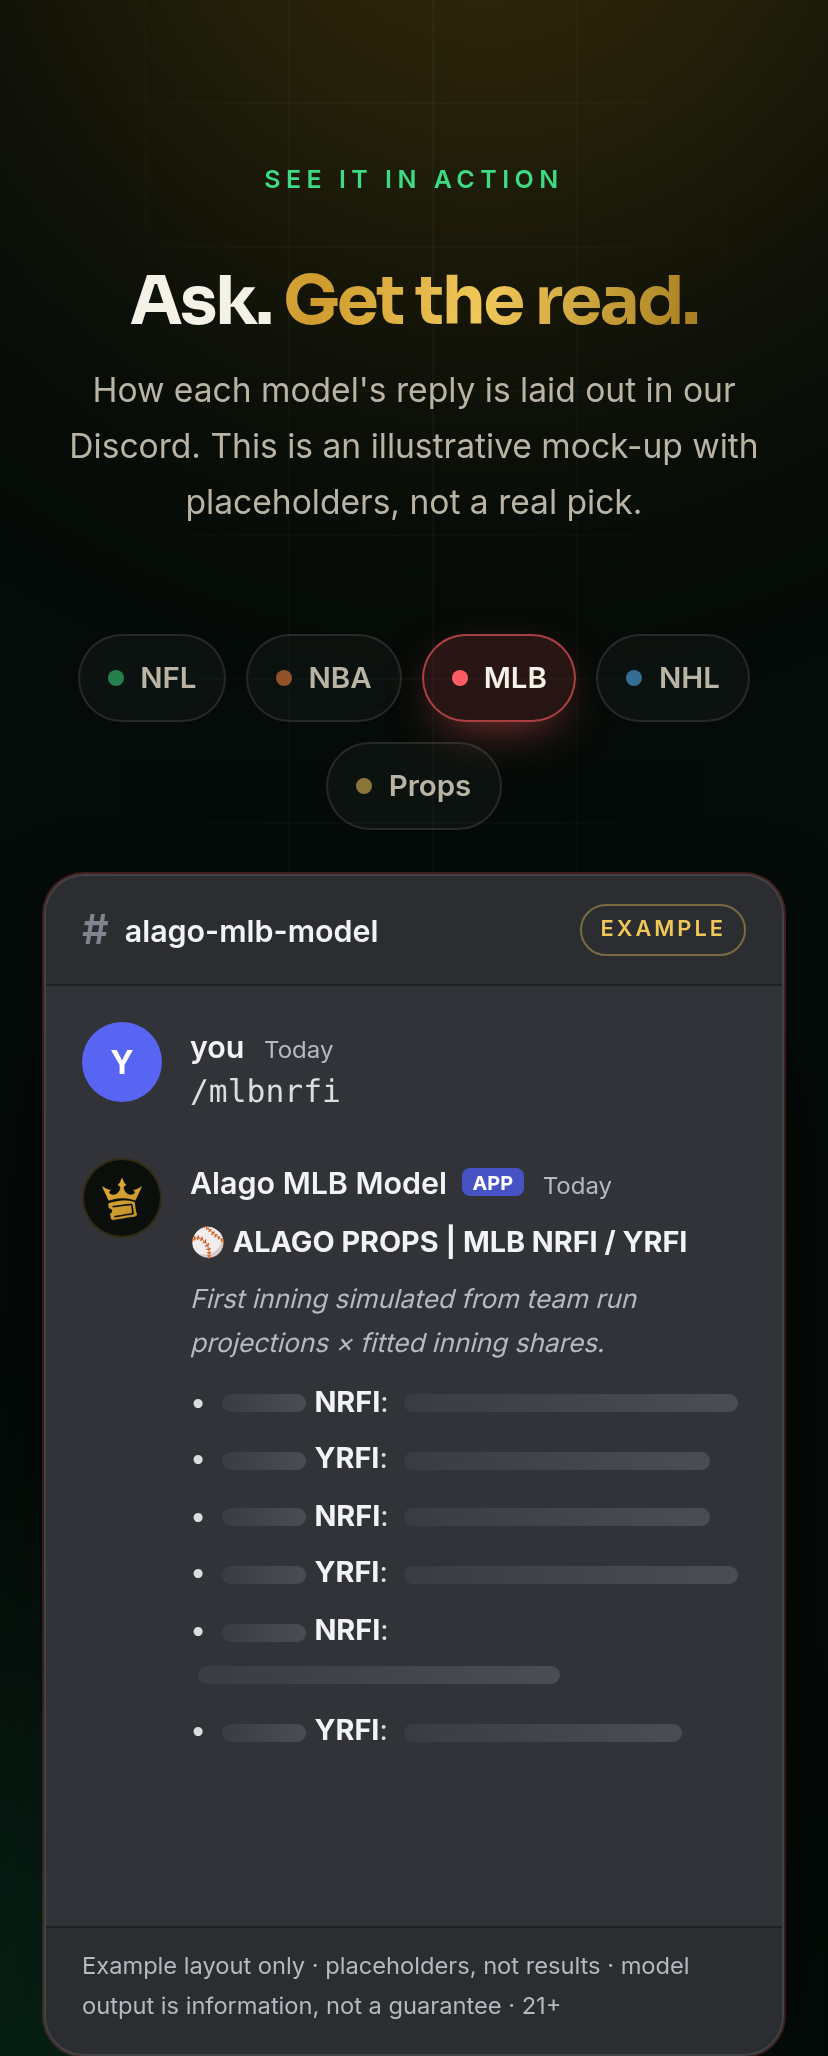
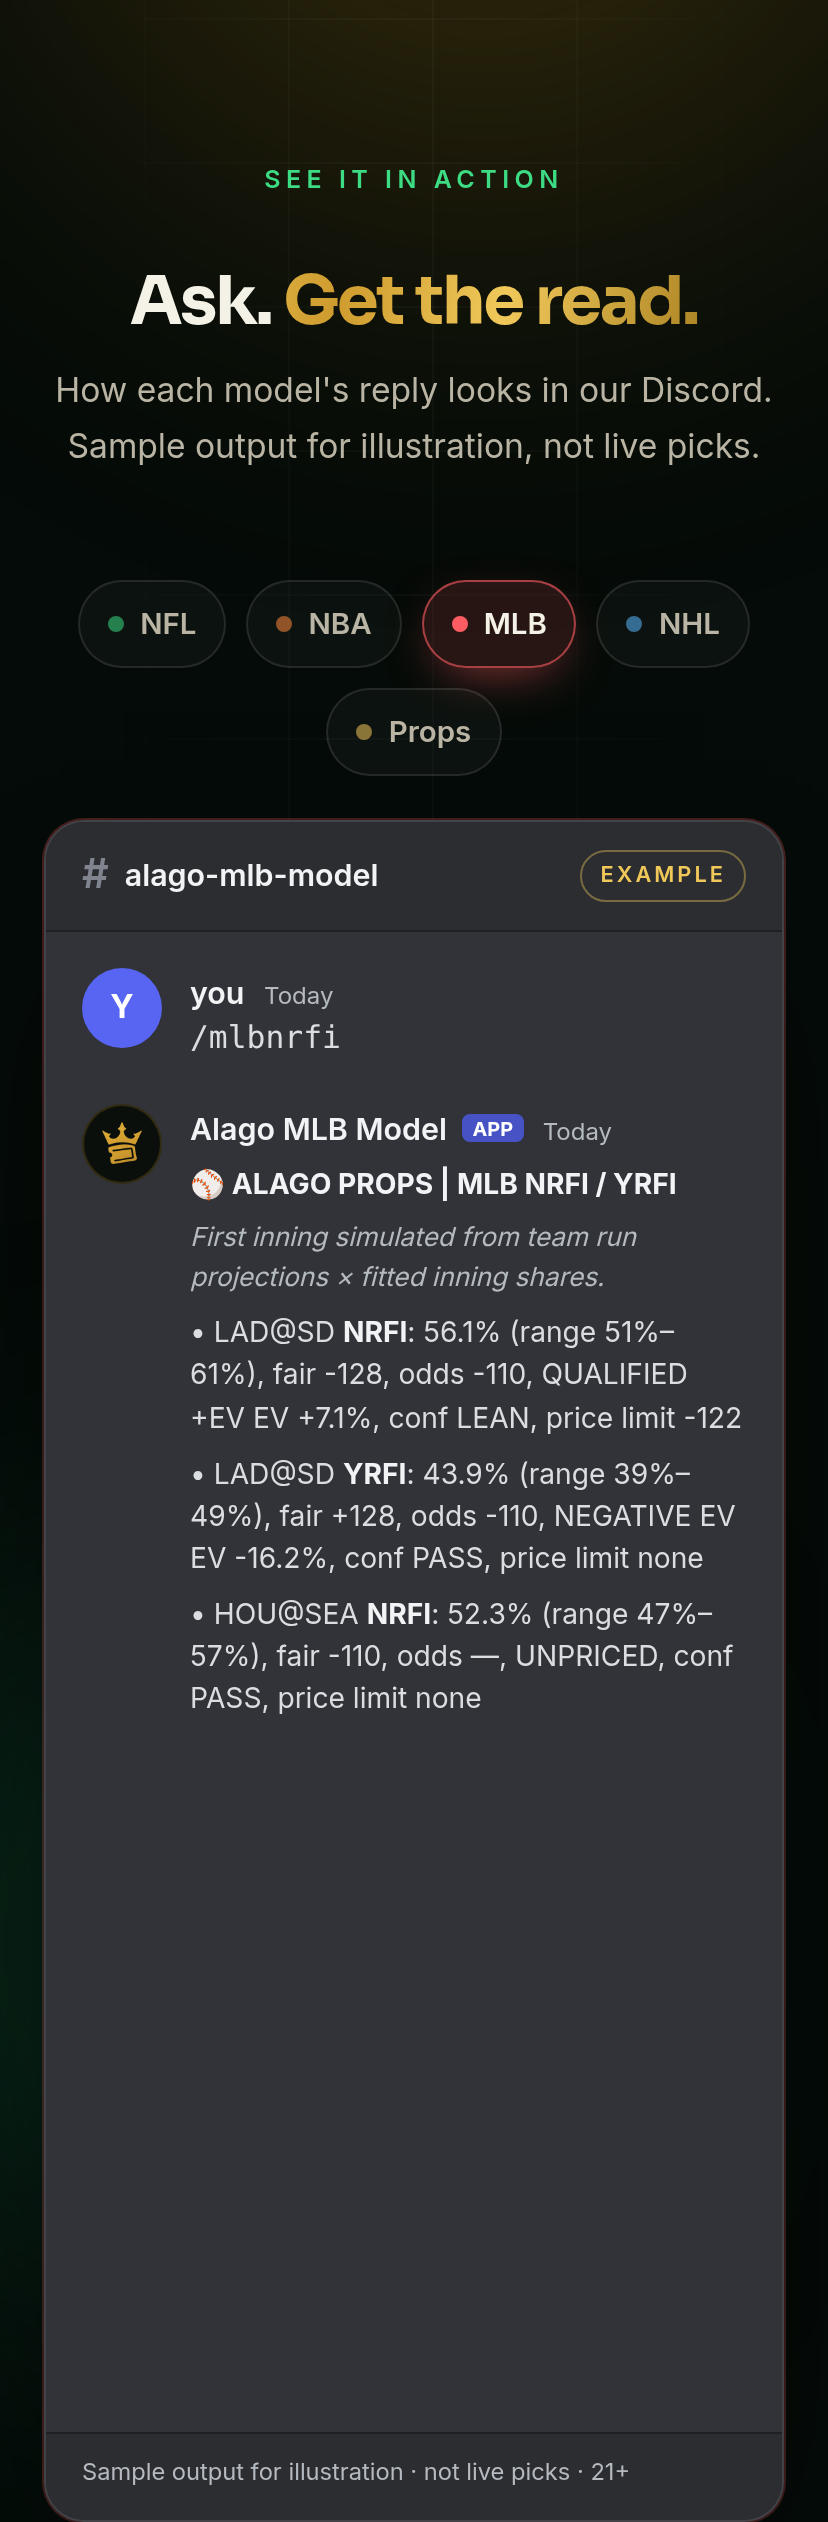
Demo: realistic sample output in each bot's real format; new disclaimer; chart

diff --git a/main.js b/main.js
@@ -138,18 +138,36 @@ c.classList.add('copied');setTimeout(()=>c.classList.remove('copied'),1200);show
 
 /* discord demo: 5 model tabs; reply layouts mirror each bot's real output (titles/labels from bot code), values are placeholders */
 (()=>{const box=document.getElementById('demoBox');if(!box)return;const RM=matchMedia('(prefers-reduced-motion: reduce)').matches;
-const sk=w=>`<i class="sk w${w}"></i>`;
 const D={
- nfl:{ch:'alago-nfl-model',bot:'Alago NFL Model',cmd:'/nflslate',sr:'the Alago NFL Model replies with an NFL slate breakdown: best supported straight bet, best supported player prop, best potential +EV opportunity, best-supported parlay candidates, and games and markets worth monitoring.',
-  html:`<div class="d-txt"><p><b>🏈 ALAGO PROPS | NFL SLATE BREAKDOWN</b> ${sk(30)}</p><p class="d-sub">Analysis ${sk(40)}</p>${['1. Best supported straight bet:','2. Best supported player prop:','3. Best potential +EV opportunity:','4. Best-supported parlay candidates:','5. Games and markets worth monitoring:'].map((l,i)=>`<p class="d-line"><b>${l}</b>${sk([70,60,75,55,65][i])}</p>`).join('')}</div>`},
- nba:{ch:'alago-nba-model',bot:'Alago NBA Model',cmd:'/nbabestbet',sr:'the Alago NBA Model replies with an embed titled ALAGO PROPS, NBA BEST BET, with fields for sources and freshness, the best bet, and unverified data.',
-  html:`<div class="d-embed" style="--ec:#ff8a3d"><p class="d-et">ALAGO PROPS | NBA BEST BET | ${sk(25)}</p>${['Sources &amp; freshness','NBA BEST BET','Unverified data'].map((l,i)=>`<div class="d-fld"><p class="d-fn">${l}</p>${sk([80,90,60][i])}${i===1?sk(70)+sk(50):''}</div>`).join('')}</div>`},
- mlb:{ch:'alago-mlb-model',bot:'Alago MLB Model',cmd:'/mlbnrfi',sr:'the Alago MLB Model replies with an MLB NRFI and YRFI breakdown listing each game with its first-inning estimate, fair price, status and confidence.',
-  html:`<div class="d-txt"><p><b>⚾ ALAGO PROPS | MLB NRFI / YRFI</b></p><p class="d-sub"><em>First inning simulated from team run projections × fitted inning shares.</em></p>${[0,1,2].map(i=>`<p class="d-line">• ${sk(15)} <b>NRFI</b>: ${sk([60,55,65][i])}</p><p class="d-line">• ${sk(15)} <b>YRFI</b>: ${sk([55,60,50][i])}</p>`).join('')}</div>`},
- nhl:{ch:'alago-nhl-model',bot:'Alago NHL Model',cmd:'/nhlgoalie',sr:'the Alago NHL Model replies with a goalie card: goalie and status, basis, projected save percentage, opponent shots, saves and goals against, then win, shutout and goals-against estimates.',
-  html:`<div class="d-txt"><p>🥅 <b>${sk(30)}</b> ${sk(40)}</p><p class="d-line"><b>Basis:</b> ${sk(60)}</p><p class="d-line"><b>Proj sv%</b> ${sk(15)} · <b>opp SOG</b> ${sk(15)} · <b>saves</b> ${sk(15)} · <b>GA</b> ${sk(15)}</p><p class="d-line"><b>Win</b> ${sk(15)} · <b>Shutout</b> ${sk(15)} · <b>GA u2.5</b> ${sk(15)} <span class="d-note">[model estimates]</span></p></div>`},
- props:{ch:'alago-props-model',bot:'Alago Props Model',cmd:'/nba',opts:['firstname','lastname','prop'],sr:'the Alago Props Model replies with an embed for the player and prop with fields for player, team, league, prop, games, average, line, above, below or equal, and hit rate, plus a note that hit rate describes past games and is not a probability.',
-  html:`<div class="d-embed" style="--ec:#3b82f6"><p class="d-et">${sk(35)} · ${sk(25)}</p><div class="d-grid">${['Player','Team','League','Prop','Games','Average','Line','Above / Below / Equal','Hit rate (over)'].map((l,i)=>`<div><p class="d-fn">${l}</p>${sk([70,50,60,65,30,40,35,75,55][i])}</div>`).join('')}</div><p class="d-foot2">HISTORICAL data from stored source records. Hit rate describes past games; it is not a probability.</p></div>`}};
+ nfl:{ch:'alago-nfl-model',bot:'Alago NFL Model',cmd:'/nflslate',
+  html:`<div class="d-txt"><p><b>🏈 ALAGO PROPS | NFL SLATE BREAKDOWN</b></p><p class="d-sub">Analysis 10:42 AM ET · ESPN schedule + DK prices</p>
+<p class="d-line"><b>1. Best supported straight bet:</b> BUF@KC · Chiefs -3.5 · -110 · est. 56.2% (model edge +2.1 pts) · EV +7.3% · QUALIFIED +EV → LEAN</p>
+<p class="d-line"><b>2. Best supported player prop:</b> BUF@KC · Josh Allen o1.5 pass TD · +105 · est. 53.0% · EV +8.6% · QUALIFIED +EV → LEAN</p>
+<p class="d-line"><b>3. Best potential +EV opportunity:</b> DET@GB · Under 47.5 · -108 · est. 54.8% · EV +5.5% · QUALIFIED +EV → LOW</p>
+<p class="d-line"><b>4. Best-supported parlay candidates:</b> Chiefs -3.5 (QUALIFIED +EV); Josh Allen o1.5 pass TD (QUALIFIED +EV)</p>
+<p class="d-line"><b>5. Games and markets worth monitoring:</b> PHI@DAL Eagles ML -135 (needs -125 or better)</p></div>`,
+  sr:'the Alago NFL Model replies with an NFL slate breakdown listing a sample best straight bet, player prop, +EV opportunity, parlay candidates and games to monitor.'},
+ nba:{ch:'alago-nba-model',bot:'Alago NBA Model',cmd:'/nbabestbet',
+  html:`<div class="d-embed" style="--ec:#ff8a3d"><p class="d-et">ALAGO PROPS | NBA BEST BET</p>
+<div class="d-fld"><p class="d-fn">Sources &amp; freshness</p><p class="d-fv">Schedule: ESPN scoreboard ✓ fetched 3 min ago<br>Odds: Odds API · updated 3 min ago</p></div>
+<div class="d-fld"><p class="d-fn">NBA BEST BET</p><p class="d-fv">🏀 ALAGO PROPS | NBA BEST BET<br>Matchup: BOS @ NYK<br>Pick: Celtics -2.5<br>Odds: -110 (DraftKings)<br>Estimated Probability: 55.0% (model estimate)<br>Confidence: Lean<br>PLAY Celtics -2.5 at -110 or better (limit -118). Small, flat stake. Model estimate - not a guarantee.</p></div>
+<div class="d-fld"><p class="d-fn">Unverified data</p><p class="d-fv">- Starting lineups not yet confirmed</p></div></div>`,
+  sr:'the Alago NBA Model replies with a sample best bet embed: sources and freshness, Celtics minus 2.5 at minus 110 with a 55 percent model estimate, and unverified data.'},
+ mlb:{ch:'alago-mlb-model',bot:'Alago MLB Model',cmd:'/mlbnrfi',
+  html:`<div class="d-txt"><p><b>⚾ ALAGO PROPS | MLB NRFI / YRFI</b></p><p class="d-sub"><em>First inning simulated from team run projections × fitted inning shares.</em></p>
+<p class="d-line">• LAD@SD <b>NRFI</b>: 56.1% (range 51%–61%), fair -128, odds -110, QUALIFIED +EV EV +7.1%, conf LEAN, price limit -122</p>
+<p class="d-line">• LAD@SD <b>YRFI</b>: 43.9% (range 39%–49%), fair +128, odds -110, NEGATIVE EV EV -16.2%, conf PASS, price limit none</p>
+<p class="d-line">• HOU@SEA <b>NRFI</b>: 52.3% (range 47%–57%), fair -110, odds —, UNPRICED, conf PASS, price limit none</p></div>`,
+  sr:'the Alago MLB Model replies with sample NRFI and YRFI lines for two games, each with model percentage, range, fair odds, status and confidence.'},
+ nhl:{ch:'alago-nhl-model',bot:'Alago NHL Model',cmd:'/nhlgoalie',
+  html:`<div class="d-txt"><p>🥅 <b>Igor Shesterkin</b> (NYR) vs BOS · CONFIRMED starter (NHL boxscore): Igor Shesterkin</p><p class="d-line">Basis: season + recent starts, regressed toward league average</p>
+<p class="d-line">Proj sv% 0.914 (regressed) · opp SOG 29.4 · saves 26.9 · GA 2.53</p><p class="d-line">Win 56.0% · Shutout 6.1% · GA u2.5 52.8% <span class="d-note">[model estimates; saves/GA/shutout not backtested]</span></p></div>`,
+  sr:'the Alago NHL Model replies with a sample goalie card for Igor Shesterkin: projected save percentage 0.914, 29.4 opponent shots, 26.9 saves, 2.53 goals against, 56 percent win.'},
+ props:{ch:'alago-props-model',bot:'Alago Props Model',cmd:'/nba',opts:['firstname: Jayson','lastname: Tatum','prop: Points','line: 26.5'],
+  html:`<div class="d-embed" style="--ec:#3b82f6"><p class="d-et">Jayson Tatum · Points</p><div class="d-grid">${[['Player','Jayson Tatum'],['Team','BOS'],['League','NBA'],['Prop','Points'],['Games','10'],['Average','27.20'],['Line','26.5 (your line)'],['Above / Below / Equal','🟩 6 · 🟥 4 · ⬜ 0'],['Hit rate (over)','<b>6/10</b> (60%)']].map(([l,v])=>`<div><p class="d-fn">${l}</p><p class="d-fv">${v}</p></div>`).join('')}</div>
+<div class="d-chart" aria-hidden="true"><i class="cl" style="bottom:65%"><span>26.5</span></i><span class="cb o" style="height:89%"><em>31</em></span><span class="cb u" style="height:69%"><em>24</em></span><span class="cb o" style="height:83%"><em>29</em></span><span class="cb u" style="height:63%"><em>22</em></span><span class="cb o" style="height:94%"><em>33</em></span><span class="cb u" style="height:71%"><em>25</em></span><span class="cb u" style="height:54%"><em>19</em></span><span class="cb o" style="height:86%"><em>30</em></span><span class="cb o" style="height:80%"><em>28</em></span><span class="cb o" style="height:89%"><em>31</em></span></div>
+<p class="d-foot2">HISTORICAL data from stored source records. Hit rate describes past games; it is not a probability.</p></div>`,
+  sr:'the Alago Props Model replies with a sample embed for Jayson Tatum points: last 10 games 31, 24, 29, 22, 33, 25, 19, 30, 28, 31, average 27.2, line 26.5, 6 above and 4 below, hit rate 6 of 10.'}};
 const tabs=[...document.querySelectorAll('.dtab')],ty=box.querySelector('.d-type'),rep=document.getElementById('dReply'),srEl=document.getElementById('dSr');
 let run=0,cur='nfl',auto=null,userTouched=false,seen=false;
 const fill=k=>{const d=D[k];document.getElementById('dChan').textContent=d.ch;document.getElementById('dBot').textContent=d.bot;rep.innerHTML=d.html;box.dataset.k=k;box.setAttribute('aria-labelledby','dt-'+k);srEl.textContent=`Example: a user types ${d.cmd}${d.opts?' with '+d.opts.join(', '):''} and ${d.sr}`};

diff --git a/index.html b/index.html
@@ -65,13 +65,13 @@
 <p class="m-desc">Pull any player's last-10-game chart for a prop, across the NBA, NFL, MLB and NHL. One command per league.</p>
 <div class="m-foot"><div class="chips"><button type="button" class="chip" data-cmd="/nba" aria-label="Copy command /nba">/nba</button><button type="button" class="chip" data-cmd="/nfl" aria-label="Copy command /nfl">/nfl</button><button type="button" class="chip" data-cmd="/mlb" aria-label="Copy command /mlb">/mlb</button><button type="button" class="chip" data-cmd="/nhl" aria-label="Copy command /nhl">/nhl</button><button type="button" class="chip" data-cmd="/help" aria-label="Copy command /help">/help</button></div><a class="try" href="https://discord.gg/qv9yThhm7e" target="_blank" rel="noopener">Try it in Discord <svg viewBox="0 0 24 24" aria-hidden="true"><path d="M5 12h14M13 6l6 6-6 6"/></svg></a></div></article></div><div class="toast" id="toast" role="status" aria-live="polite"></div></section>
 <section id="demo" class="wrap sec"><p class="kicker rv">See it in action</p><h2 class="rv mask">Ask. <span class="shine">Get the read.</span></h2>
-<p class="sub rv">How each model's reply is laid out in our Discord. This is an illustrative mock-up with placeholders, not a real pick.</p>
+<p class="sub rv">How each model's reply looks in our Discord. Sample output for illustration, not live picks.</p>
 <div class="dtabs rv" role="tablist" aria-label="Choose a model"><button type="button" role="tab" class="dtab" id="dt-nfl" data-k="nfl" aria-controls="demoBox" aria-selected="true" tabindex="0"><i></i>NFL</button><button type="button" role="tab" class="dtab" id="dt-nba" data-k="nba" aria-controls="demoBox" aria-selected="false" tabindex="-1"><i></i>NBA</button><button type="button" role="tab" class="dtab" id="dt-mlb" data-k="mlb" aria-controls="demoBox" aria-selected="false" tabindex="-1"><i></i>MLB</button><button type="button" role="tab" class="dtab" id="dt-nhl" data-k="nhl" aria-controls="demoBox" aria-selected="false" tabindex="-1"><i></i>NHL</button><button type="button" role="tab" class="dtab" id="dt-props" data-k="props" aria-controls="demoBox" aria-selected="false" tabindex="-1"><i></i>Props</button></div>
 <div class="demo rv" id="demoBox" role="tabpanel" aria-labelledby="dt-nfl" data-k="nfl" tabindex="0"><div class="d-bar"><span class="d-hash">#</span><span id="dChan">alago-nfl-model</span><span class="d-ex">Example</span></div>
 <div class="d-body" aria-hidden="true">
 <div class="d-msg d-user"><div class="d-av u">Y</div><div><p class="d-name">you <time>Today</time></p><p class="d-text"><span class="d-type" data-text="/nflslate"></span><i class="d-caret"></i></p></div></div>
 <div class="d-msg d-bot"><div class="d-av b"><img src="logo-icon.png" alt="" width="20" height="21"></div><div class="d-bwrap"><p class="d-name"><span id="dBot">Alago NFL Model</span> <span class="d-app">APP</span> <time>Today</time></p><div id="dReply"></div></div></div>
-</div><p class="d-disc">Example layout only · placeholders, not results · model output is information, not a guarantee · 21+</p><p class="sr-only" id="dSr"></p></div></section>
+</div><p class="d-disc">Sample output for illustration · not live picks · 21+</p><p class="sr-only" id="dSr"></p></div></section>
 <section id="why" class="wrap sec"><p class="kicker rv">Why AlagoBets</p><h2 class="rv mask">Built different <span class="shine">on purpose</span></h2>
 <div class="why rv"><table><caption class="sr-only">AlagoBets compared with a typical paywalled tipster</caption><thead><tr><th scope="col"><span class="sr-only">Feature</span></th><th scope="col" class="us">AlagoBets</th><th scope="col">Typical paywalled tipster</th></tr></thead><tbody>
 <tr><th scope="row">Cost to join</th><td class="us">Free</td><td>Subscription</td></tr>

diff --git a/style.css b/style.css
@@ -285,3 +285,11 @@ nav.fcol a:after{display:none}
 .d-disc{padding:10px 18px 14px;font-size:.74rem;color:#b5bac1;border-top:1px solid #1f2023;background:#2b2d31}
 @media(max-width:520px){.d-grid{grid-template-columns:1fr 1fr}.d-body{min-height:470px}.dtab{padding:9px 14px}}
 .d-body{align-content:start}
+.d-fv{color:#dbdee1;font-size:.86rem;line-height:1.5}.d-txt{font-size:.88rem;line-height:1.5}.d-line{color:#dbdee1}
+.d-chart{position:relative;display:flex;align-items:flex-end;gap:5px;height:110px;margin-top:14px;padding:16px 8px 0;border-radius:6px;background:#1e1f22}
+.d-chart .cb{flex:1;border-radius:3px 3px 0 0;position:relative}.d-chart .cb.o{background:#23a55a}.d-chart .cb.u{background:#da373c}
+.d-chart .cb em{position:absolute;top:-15px;left:0;right:0;text-align:center;font:600 .62rem Inter,sans-serif;color:#dbdee1;font-style:normal}
+.d-chart .cl{position:absolute;left:8px;right:8px;border-top:1.5px dashed #f0c85a;z-index:1}.d-chart .cl span{position:absolute;right:0;top:-15px;font:700 .62rem Inter,sans-serif;color:#f0c85a;background:#1e1f22;padding:0 3px}
+.d-body{min-height:0}
+.d-body{min-height:560px}@media(max-width:520px){.d-body{min-height:750px}}
+.d-chart .cl span{right:auto;left:-2px;top:-8px;transform:translateX(-100%);padding:0 2px}.d-chart{padding-left:34px}.d-chart .cl{left:34px}
